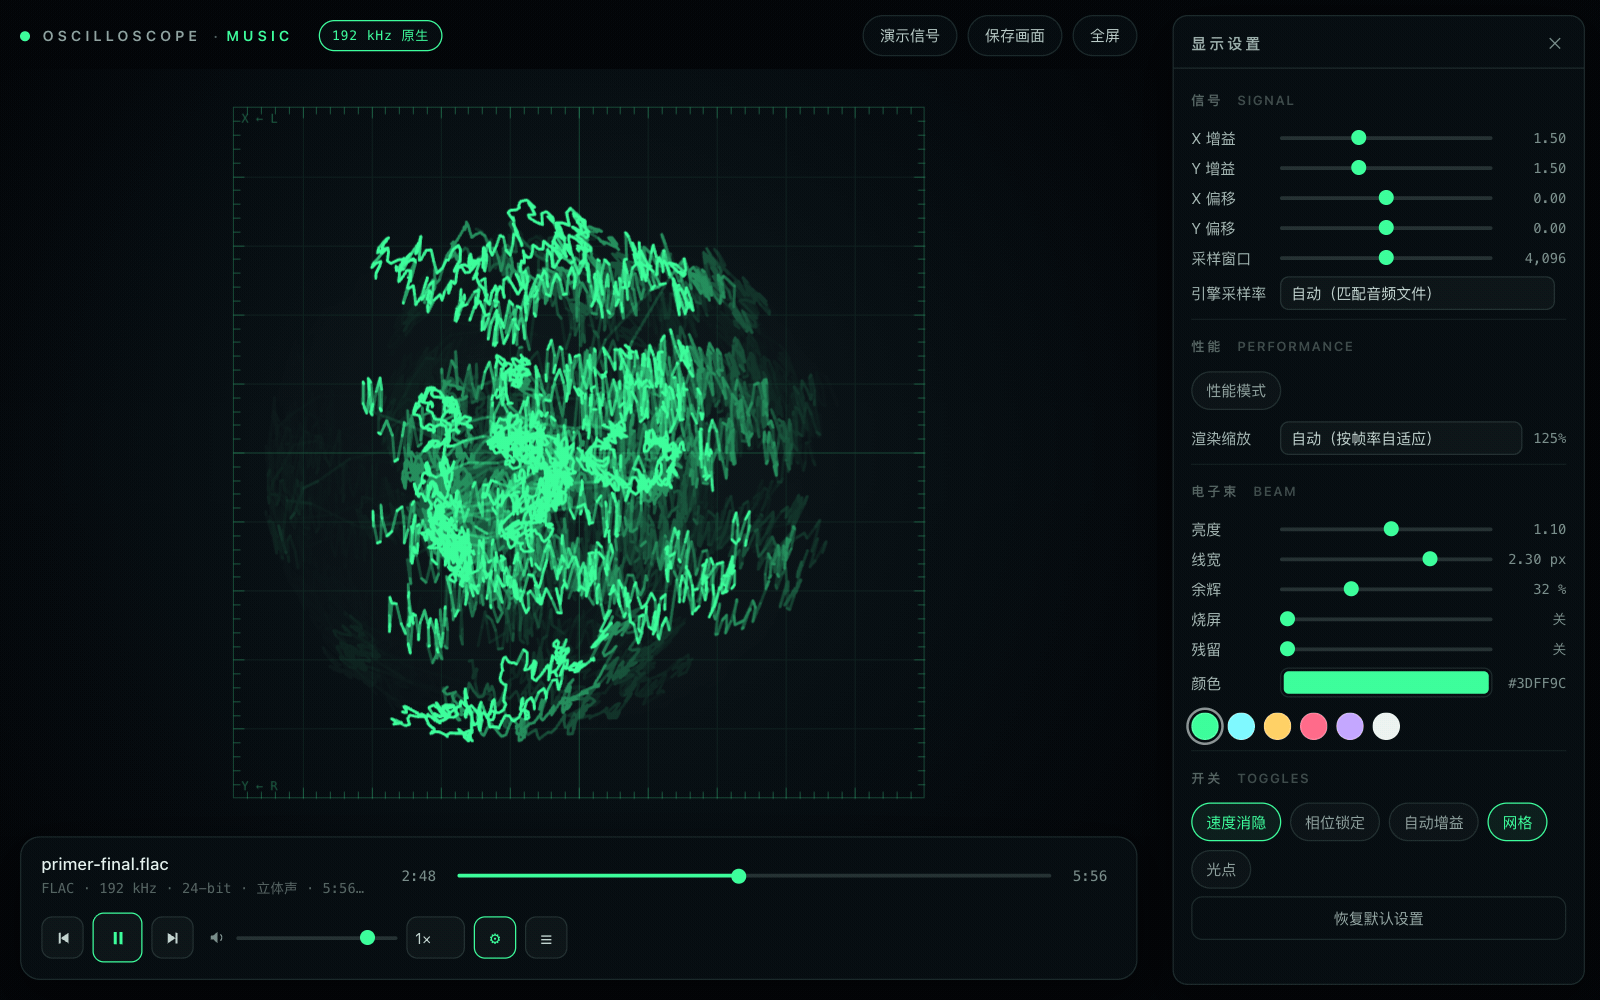
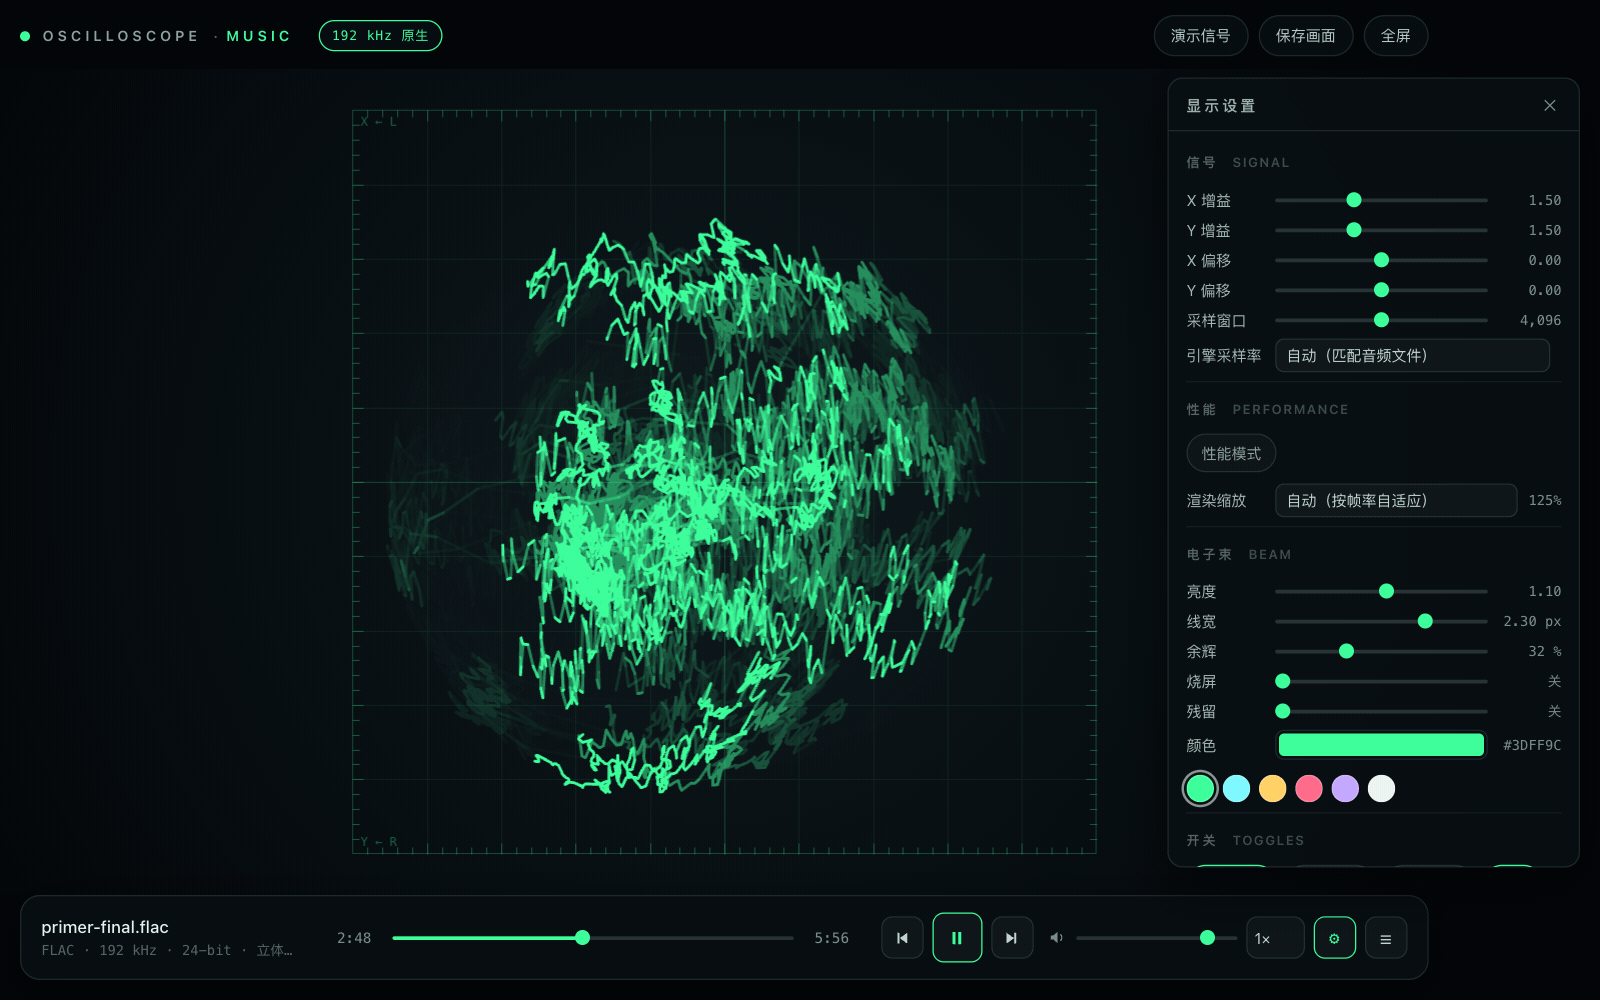
Let panels use the margin instead of shoving the canvas
The reserved-space grid resized the whole stage whenever a panel opened, so
the canvas changed size and the plot slid sideways. Unnecessary: the plot is
a centred square, so on a wide window there is a margin either side wide
enough to hide an entire panel.

Now the chrome spans the full width and the canvas never changes size or
position when a panel toggles. Only the PLOT gives up room, only as much as
it must, and it stays centred (max of the two insets, not the sum) so a
single panel never pushes it off-centre.

Measured plot size with panels open, and panel-by-plot overlap:

  1600x900   685 -> 685 (unchanged, both panels)
  1440x900   685 -> 602
  1280x800   595 -> 448
  1024x700   436 -> 203
  panel vs plot overlap: 0 px in every case

Also fixes a bug in the inset maths from the previous commit: it took
max(r.right - stage.left, stage.right - r.left) for every panel, so a
right-hand panel reported the distance from the LEFT edge and the plot was
clamped to its 64px floor. The side is now detected from the panel's centre.

diff --git a/oscilloscope-standalone.html b/oscilloscope-standalone.html
@@ -84,11 +84,15 @@ body.dragging::after {
   grid-template-rows: auto minmax(0, 1fr) auto;
   gap: 0;
 }
-.topbar { grid-column: 2; grid-row: 1; }
-.stage { grid-column: 2; grid-row: 2; }
-.dock { grid-column: 2; grid-row: 3; }
-#panelList { grid-column: 1; grid-row: 1 / -1; }
-#panelSettings { grid-column: 3; grid-row: 1 / -1; }
+/* The chrome owns the top and bottom rows across the FULL width, so the stage
+   (and therefore the canvas) never changes size or position when a panel opens.
+   Panels are overlays that live in the dead margin beside the square plot; the
+   plot is what makes room for them, and only when it actually has to. */
+#app { grid-template-columns: minmax(0, 1fr); }
+.topbar { grid-column: 1; grid-row: 1; }
+.stage { grid-column: 1; grid-row: 2; }
+.dock { grid-column: 1; grid-row: 3; }
+.toast { grid-column: 1; }
 
 /* ── stage / canvases ─────────────────────────────────────────────────── */
 
@@ -347,11 +351,13 @@ input[type="range"]::-moz-range-thumb {
 /* ── panels ───────────────────────────────────────────────────────────── */
 
 .panel {
+  position: absolute;
+  top: 62px;
+  bottom: 106px;
   z-index: 30;
   width: 330px;
   max-width: 40vw;
-  margin: 12px;
-  display: none;              /* closed rails collapse to zero width */
+  display: none;
   flex-direction: column;
   min-height: 0;
   border: 1px solid var(--edge);
@@ -361,7 +367,10 @@ input[type="range"]::-moz-range-thumb {
   -webkit-backdrop-filter: blur(18px);
   box-shadow: var(--shadow);
 }
-.panel.open { display: flex; }
+.panel.open { display: flex; animation: panelIn 0.18s ease-out; }
+#panelList { left: 16px; }
+#panelSettings { right: 16px; }
+@keyframes panelIn { from { opacity: 0; } to { opacity: 1; } }
 
 .panel-head {
   flex: none;
@@ -633,7 +642,10 @@ body.idle { cursor: none; }
     margin: 0;
     border-radius: var(--r) var(--r) 0 0;
   }
-  .panel.open { display: flex; }
+  .panel.open { display: flex; animation: panelIn 0.18s ease-out; }
+#panelList { left: 16px; }
+#panelSettings { right: 16px; }
+@keyframes panelIn { from { opacity: 0; } to { opacity: 1; } }
   .dock { margin: 0 10px 10px; }
   .vol { display: none; }
 }
@@ -999,21 +1011,46 @@ body.idle { cursor: none; }
     return clamp(base * (Number.isFinite(mul) && mul > 0 ? mul : 1), 0.4, 3);
   }
 
+  /** How far the open side panels reach into the stage, in CSS px. The canvas
+   *  itself is never resized for a panel; only the PLOT gives up room, and only
+   *  as much as it must. On a wide window the square plot has a margin wide
+   *  enough to hide a whole panel, so nothing moves at all. */
+  function panelInset() {
+    const stage = dom.stage.getBoundingClientRect();
+    if (!stage.width) return 0;
+    const mid = (stage.left + stage.right) / 2;
+    let inset = 0;
+    for (const el of [dom.panelList, dom.panelSettings]) {
+      if (!el || !el.classList.contains('open')) continue;
+      const r = el.getBoundingClientRect();
+      // measure the intrusion from the edge the panel actually sits on
+      const onRight = (r.left + r.right) / 2 > mid;
+      inset = Math.max(inset, onRight ? stage.right - r.left : r.right - stage.left);
+    }
+    return Math.max(0, inset);
+  }
+
+  let lastInset = -1;
+
   function layout() {
     const rect = dom.stage.getBoundingClientRect();
     const dpr = effectiveDpr();
     const w = Math.max(2, Math.round((rect.width || window.innerWidth) * dpr));
     const h = Math.max(2, Math.round((rect.height || window.innerHeight) * dpr));
-    if (w === W && h === H && dpr === DPR) return false;
+    const inset = panelInset();
+    if (w === W && h === H && dpr === DPR && inset === lastInset) return false;
+    lastInset = inset;
 
     DPR = dpr; W = w; H = h;
     dom.bg.width = W; dom.bg.height = H;           // redrawn from scratch below
     resizeKeeping(dom.burnin, nctx);
     resizeKeeping(dom.trace, tctx);
 
-    // The stage is whatever the chrome and any open panel left over, so the
-    // plot can simply be centred in it — nothing overlaps it any more.
-    PLOT = Math.min(W, H) * 0.9;
+    // Stay centred in the canvas and only shrink when a panel genuinely does
+    // not fit in the margin beside the plot. Using max() rather than the sum
+    // keeps it centred, so opening one panel never shoves the plot sideways.
+    const margin = inset * dpr;
+    PLOT = Math.max(64 * dpr, Math.min(H * 0.9, (W - 2 * margin) * 0.96));
     PLOT_X = (W - PLOT) / 2;
     PLOT_Y = (H - PLOT) / 2;
 
@@ -2368,6 +2405,7 @@ body.idle { cursor: none; }
     const open = !p.classList.contains('open');
     p.classList.toggle('open', open);
     $(id === 'panelSettings' ? 'btnSettings' : 'btnList').classList.toggle('on', open);
+    if (layout()) { needsRedraw = true; settle = 100; }   // the plot may need to give up margin
     // Left and right rails are independent now that they reserve their own
     // space, so both panels can be open at once.
   }
@@ -2533,6 +2571,7 @@ body.idle { cursor: none; }
         effectiveDpr: effectiveDpr(),
         analyserSize,
         canvas: { w: W, h: H },
+        plot: { x: PLOT_X, y: PLOT_Y, size: PLOT },
         workMs: workAvg,
         work: {
           trimmed: workTrimmed(0.25),   // load-proof headline number

diff --git a/public/app.js b/public/app.js
@@ -174,21 +174,46 @@
     return clamp(base * (Number.isFinite(mul) && mul > 0 ? mul : 1), 0.4, 3);
   }
 
+  /** How far the open side panels reach into the stage, in CSS px. The canvas
+   *  itself is never resized for a panel; only the PLOT gives up room, and only
+   *  as much as it must. On a wide window the square plot has a margin wide
+   *  enough to hide a whole panel, so nothing moves at all. */
+  function panelInset() {
+    const stage = dom.stage.getBoundingClientRect();
+    if (!stage.width) return 0;
+    const mid = (stage.left + stage.right) / 2;
+    let inset = 0;
+    for (const el of [dom.panelList, dom.panelSettings]) {
+      if (!el || !el.classList.contains('open')) continue;
+      const r = el.getBoundingClientRect();
+      // measure the intrusion from the edge the panel actually sits on
+      const onRight = (r.left + r.right) / 2 > mid;
+      inset = Math.max(inset, onRight ? stage.right - r.left : r.right - stage.left);
+    }
+    return Math.max(0, inset);
+  }
+
+  let lastInset = -1;
+
   function layout() {
     const rect = dom.stage.getBoundingClientRect();
     const dpr = effectiveDpr();
     const w = Math.max(2, Math.round((rect.width || window.innerWidth) * dpr));
     const h = Math.max(2, Math.round((rect.height || window.innerHeight) * dpr));
-    if (w === W && h === H && dpr === DPR) return false;
+    const inset = panelInset();
+    if (w === W && h === H && dpr === DPR && inset === lastInset) return false;
+    lastInset = inset;
 
     DPR = dpr; W = w; H = h;
     dom.bg.width = W; dom.bg.height = H;           // redrawn from scratch below
     resizeKeeping(dom.burnin, nctx);
     resizeKeeping(dom.trace, tctx);
 
-    // The stage is whatever the chrome and any open panel left over, so the
-    // plot can simply be centred in it — nothing overlaps it any more.
-    PLOT = Math.min(W, H) * 0.9;
+    // Stay centred in the canvas and only shrink when a panel genuinely does
+    // not fit in the margin beside the plot. Using max() rather than the sum
+    // keeps it centred, so opening one panel never shoves the plot sideways.
+    const margin = inset * dpr;
+    PLOT = Math.max(64 * dpr, Math.min(H * 0.9, (W - 2 * margin) * 0.96));
     PLOT_X = (W - PLOT) / 2;
     PLOT_Y = (H - PLOT) / 2;
 
@@ -1543,6 +1568,7 @@
     const open = !p.classList.contains('open');
     p.classList.toggle('open', open);
     $(id === 'panelSettings' ? 'btnSettings' : 'btnList').classList.toggle('on', open);
+    if (layout()) { needsRedraw = true; settle = 100; }   // the plot may need to give up margin
     // Left and right rails are independent now that they reserve their own
     // space, so both panels can be open at once.
   }
@@ -1708,6 +1734,7 @@
         effectiveDpr: effectiveDpr(),
         analyserSize,
         canvas: { w: W, h: H },
+        plot: { x: PLOT_X, y: PLOT_Y, size: PLOT },
         workMs: workAvg,
         work: {
           trimmed: workTrimmed(0.25),   // load-proof headline number

diff --git a/public/styles.css b/public/styles.css
@@ -63,11 +63,15 @@ body.dragging::after {
   grid-template-rows: auto minmax(0, 1fr) auto;
   gap: 0;
 }
-.topbar { grid-column: 2; grid-row: 1; }
-.stage { grid-column: 2; grid-row: 2; }
-.dock { grid-column: 2; grid-row: 3; }
-#panelList { grid-column: 1; grid-row: 1 / -1; }
-#panelSettings { grid-column: 3; grid-row: 1 / -1; }
+/* The chrome owns the top and bottom rows across the FULL width, so the stage
+   (and therefore the canvas) never changes size or position when a panel opens.
+   Panels are overlays that live in the dead margin beside the square plot; the
+   plot is what makes room for them, and only when it actually has to. */
+#app { grid-template-columns: minmax(0, 1fr); }
+.topbar { grid-column: 1; grid-row: 1; }
+.stage { grid-column: 1; grid-row: 2; }
+.dock { grid-column: 1; grid-row: 3; }
+.toast { grid-column: 1; }
 
 /* ── stage / canvases ─────────────────────────────────────────────────── */
 
@@ -326,11 +330,13 @@ input[type="range"]::-moz-range-thumb {
 /* ── panels ───────────────────────────────────────────────────────────── */
 
 .panel {
+  position: absolute;
+  top: 62px;
+  bottom: 106px;
   z-index: 30;
   width: 330px;
   max-width: 40vw;
-  margin: 12px;
-  display: none;              /* closed rails collapse to zero width */
+  display: none;
   flex-direction: column;
   min-height: 0;
   border: 1px solid var(--edge);
@@ -340,7 +346,10 @@ input[type="range"]::-moz-range-thumb {
   -webkit-backdrop-filter: blur(18px);
   box-shadow: var(--shadow);
 }
-.panel.open { display: flex; }
+.panel.open { display: flex; animation: panelIn 0.18s ease-out; }
+#panelList { left: 16px; }
+#panelSettings { right: 16px; }
+@keyframes panelIn { from { opacity: 0; } to { opacity: 1; } }
 
 .panel-head {
   flex: none;
@@ -612,7 +621,10 @@ body.idle { cursor: none; }
     margin: 0;
     border-radius: var(--r) var(--r) 0 0;
   }
-  .panel.open { display: flex; }
+  .panel.open { display: flex; animation: panelIn 0.18s ease-out; }
+#panelList { left: 16px; }
+#panelSettings { right: 16px; }
+@keyframes panelIn { from { opacity: 0; } to { opacity: 1; } }
   .dock { margin: 0 10px 10px; }
   .vol { display: none; }
 }

diff --git a/README.md b/README.md
@@ -46,10 +46,15 @@ node build-standalone.js   # 改完 public/ 后重新生成单文件版
 
 ![界面](docs/ui.png)
 
-布局是**预留式**的：整个界面是一个 CSS grid，示波区就是「顶栏、控制台、以及已打开的
-面板」之外剩下的那块。所以面板永远压不到波形上 —— 打开播放列表和设置时，示波区会
-自己让位（配合上面说的图层跨缩放保留，让位时画面不会丢）。窄屏没有空间预留，才退回
-浮层。
+布局的原则是**画布不动，只有绘图区让位**：
+
+- 画布（背景、网格、画布本身）永远占满窗口，开关面板**不会改变它的尺寸或位置**。
+- 面板是浮层，落在正方形绘图区两侧的留白里。正方形居中，所以宽屏下两侧留白很宽
+  —— 1600×900 时两侧各有约 400px，一个 330px 的面板整个塞得进去，**绘图区一动不动**。
+- 只有当留白真的塞不下时（比如小窗口双开），绘图区才缩小，而且保持居中，不会被推向
+  一边。窄屏（≤900px）没有余量，退回浮层覆盖。
+
+切面板时会用 `layout()` 重新算绘图区，配合前面说的图层跨缩放保留，画面不会丢。
 
 | 键 | 作用 | 键 | 作用 |
 |---|---|---|---|
